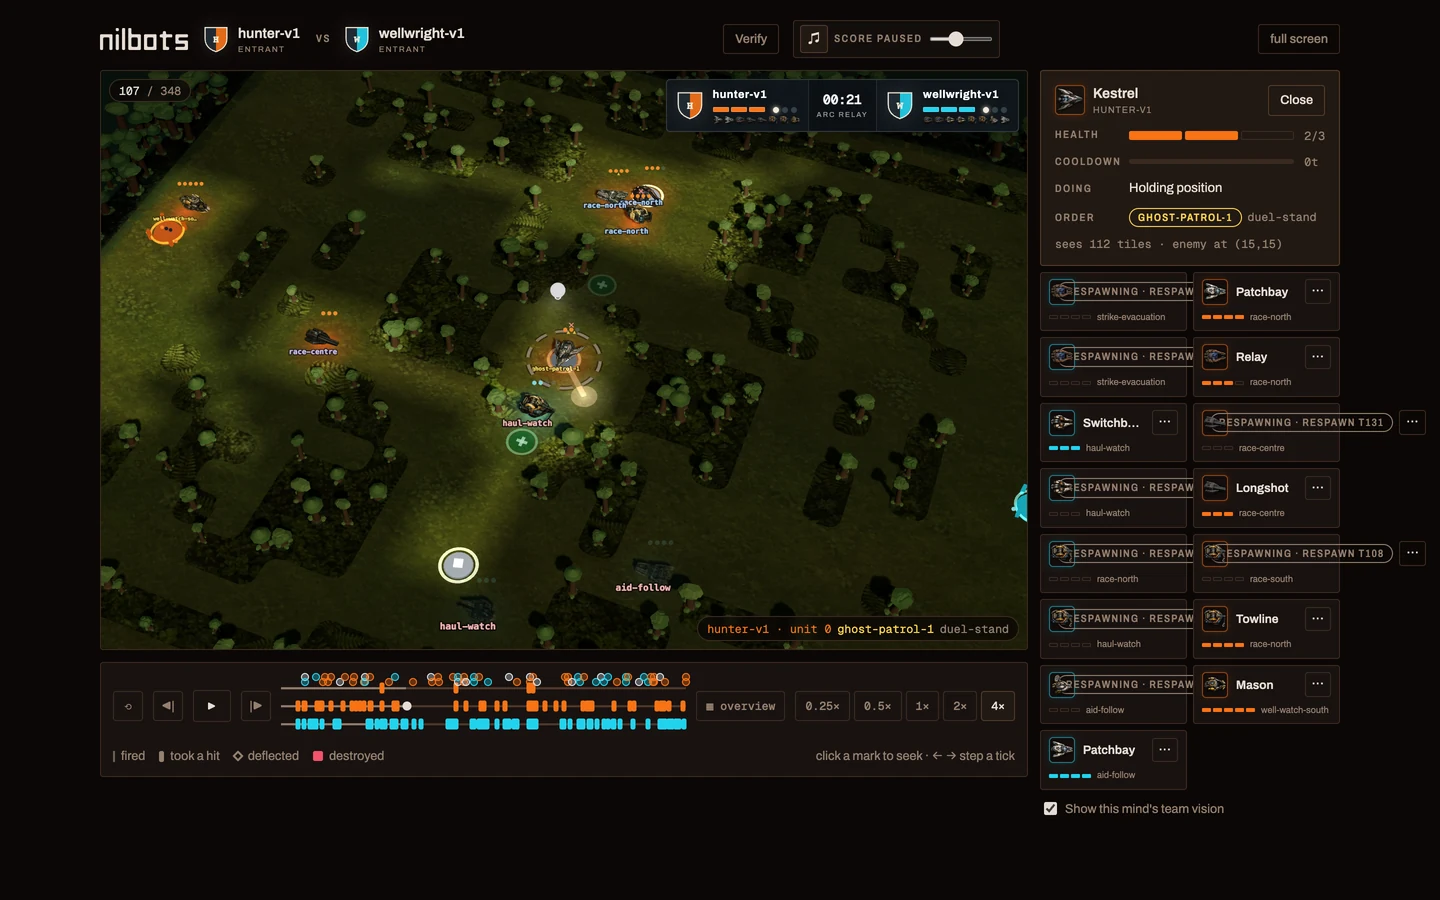
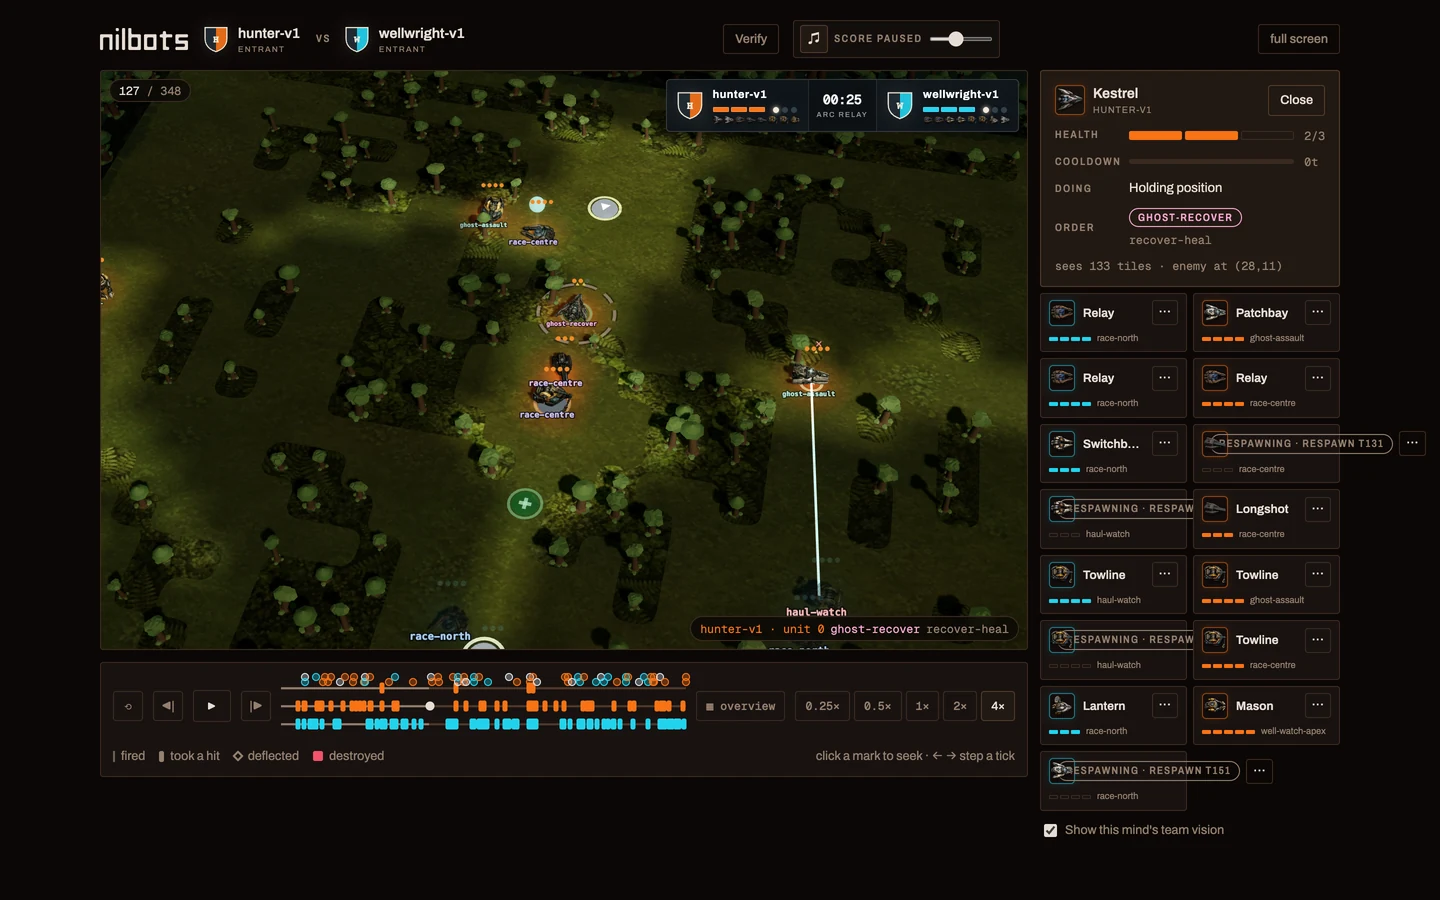
Converge Woodland camera presets

diff --git a/web/tests/arenaCamera.test.ts b/web/tests/arenaCamera.test.ts
@@ -68,7 +68,7 @@ function projectedWebglBotFootprint(
   viewport: { width: number; height: number },
   includeSelectionMarker = false,
 ): { width: number; height: number } {
-  const yaw = (22 * Math.PI) / 180;
+  const yaw = (12 * Math.PI) / 180;
   const pitch = (52 * Math.PI) / 180;
   const camera = new THREE.PerspectiveCamera(
     26,
@@ -247,7 +247,7 @@ test('it never gets closer than about six tiles, and never wider than the arena'
   assert.deepEqual(everywhere, full, 'the full arena is the zoom-out floor');
 });
 
-test('Arc Relay gives both renderers the same readable seven-and-a-half-tile closest shot', () => {
+test('Arc Relay gives both renderers the same readable seven-tile closest shot', () => {
   const arc = loadReplayJson(
     readFileSync(join(here, 'fixtures', 'generic-mind-replay-v3.json'), 'utf8'),
   ).replay;
@@ -256,7 +256,7 @@ test('Arc Relay gives both renderers the same readable seven-and-a-half-tile clo
   arc.contract.modeKind = 'arc-relay';
 
   const minSpan = directorMinSpan(arc);
-  assert.equal(minSpan, 7.5);
+  assert.equal(minSpan, 7);
   assert.equal(directorShotHoldTicks(arc), 7);
   assert.equal(directorMinSpan(frontline), undefined);
   assert.equal(directorShotHoldTicks(frontline), 0);
@@ -265,7 +265,7 @@ test('Arc Relay gives both renderers the same readable seven-and-a-half-tile clo
     aspect: PHONE_LANDSCAPE.width / PHONE_LANDSCAPE.height,
     minSpan,
   });
-  assert.ok(close.width >= 7.5, `Arc Relay close-up held at ${close.width} tiles`);
+  assert.ok(close.width >= 7, `Arc Relay close-up held at ${close.width} tiles`);
   const footprint = projectedWebglBotFootprint(close, PHONE_LANDSCAPE);
   assert.ok(
     footprint.width >= MINIMUM_BOT_RENDER_PIXELS &&
@@ -289,7 +289,10 @@ test('Arc Relay overview frames all three theaters closer than the whole map', (
       { wellId: 'well-centre', position: { x: 15, y: 11 }, nextScheduledBirthTick: 20, outstandingCoreId: null, pendingCharge: false, rearmCompletesAtTick: null },
       { wellId: 'well-south', position: { x: 15, y: 18 }, nextScheduledBirthTick: 30, outstandingCoreId: null, pendingCharge: false, rearmCompletesAtTick: null },
     ],
-    reactors: [],
+    reactors: [
+      { teamId: 0, position: { x: 1, y: 11 }, pulseProgress: 0 },
+      { teamId: 1, position: { x: 29, y: 11 }, pulseProgress: 0 },
+    ],
     visibleCores: [],
     visibleSignatures: [],
     latestPulseTeamId: null,
@@ -308,6 +311,10 @@ test('Arc Relay overview frames all three theaters closer than the whole map', (
   assert.ok(
     overview.width < framing.mapWidth,
     `the ${overview.width}-tile overview crops a ${framing.mapWidth}-wide map`,
+  );
+  assert.ok(
+    overview.width <= 24 + 1e-9,
+    'distant home Reactors do not turn the central overview back into a whole-map shot',
   );
   assert.ok(
     Math.abs(overview.x - framing.mapWidth / 2) < 1e-9 &&
@@ -937,7 +944,7 @@ test('a selection follow keeps context while its complete render clears 63×63 C
     // Arc Relay's director floor. A follow deliberately ignores it: that number exists so
     // an UNATTENDED camera keeps a rotation legible, and honouring it here would answer
     // "show me this one" with a frame barely tighter than the board.
-    minSpan: 7.5,
+    minSpan: 7,
   };
   const body = { x: 10.5, y: 8.5 };
   const follow = selectionFollowFrame(body, framing);
@@ -947,21 +954,25 @@ test('a selection follow keeps context while its complete render clears 63×63 C
     `clearly closer than the board (${follow.width.toFixed(1)} of ${full.width.toFixed(1)})`,
   );
   assert.ok(
-    follow.height <= 5.8,
-    `at most 5.8 tiles on the tight axis (${follow.height.toFixed(1)})`,
+    follow.height <= 8,
+    `at most eight tiles on the tight axis (${follow.height.toFixed(1)})`,
   );
   assert.ok(
     Math.abs(follow.x - body.x) < 1e-9 && Math.abs(follow.y - body.y) < 1e-9,
     'centred on the body, not on the map',
   );
-  const desktopFootprint = projectedWebglBotFootprint(follow, {
-    width: framing.viewportWidth,
-    height: framing.viewportHeight,
-  });
+  const desktopFootprint = projectedWebglBotFootprint(
+    follow,
+    {
+      width: framing.viewportWidth,
+      height: framing.viewportHeight,
+    },
+    true,
+  );
   assert.ok(
     desktopFootprint.width >= MINIMUM_BOT_RENDER_PIXELS &&
       desktopFootprint.height >= MINIMUM_BOT_RENDER_PIXELS,
-    `desktop body is ${desktopFootprint.width.toFixed(1)}×${desktopFootprint.height.toFixed(1)} px`,
+    `desktop selection is ${desktopFootprint.width.toFixed(1)}×${desktopFootprint.height.toFixed(1)} px`,
   );
 
   for (const viewport of [PHONE_LANDSCAPE, PHONE_PORTRAIT]) {
@@ -986,7 +997,7 @@ test('a followed body keeps the camera until a hand takes it', () => {
     mapWidth: 31,
     mapHeight: 23,
     aspect: 16 / 10,
-    minSpan: 7.5,
+    minSpan: 7,
   };
   const camera = new ArenaCamera(framing);
   const opening = selectionFollowFrame({ x: 5.5, y: 5.5 }, framing);

diff --git a/web/src/render/arenaCamera.ts b/web/src/render/arenaCamera.ts
@@ -78,7 +78,7 @@ export const MINIMUM_BOT_RENDER_PIXELS = 63;
 export function directorMinSpan(replay: ReplayModel): number | undefined {
   return replay.contract.kind === 'v3-generic' &&
     replay.contract.modeKind === 'arc-relay'
-    ? 7.5
+    ? 7
     : undefined;
 }
 
@@ -154,8 +154,9 @@ const OVERVIEW_ANCHOR_MARGIN_TILES = 0.5;
  *
  * The map bounds are deliberately not an anchor. Treating them as one made "overview" a
  * synonym for maximum zoom-out even when every objective occupied a much smaller box. The
- * frame now holds all three Wells and both Reactors with half a tile of breathing room;
- * the unplayed apron may leave the shot. It never exceeds `fullArenaFrame`.
+ * frame now holds all three Wells with half a tile of breathing room. The distant home
+ * Reactors and unplayed apron may leave the shot; making them mandatory turns the useful
+ * central overview back into a near-whole-map view. It never exceeds `fullArenaFrame`.
  *
  * The anchors are read from the first causal mode state the replay carries rather than
  * reconstructed from a map id, so a later Arc Relay map gets the same behavior without a
@@ -169,10 +170,10 @@ export function strategicOverviewFrame(
   const mode = arcRelayModeState(replay, 0);
   const wells = mode?.wells ?? [];
   if (wells.length < 2) return fullArenaFrame(framing);
-  const anchors = [
-    ...wells.map((well) => well.position),
-    ...(mode?.reactors ?? []).map((reactor) => reactor.position),
-  ].map((position) => ({ x: position.x + 0.5, y: position.y + 0.5 }));
+  const anchors = wells.map((well) => ({
+    x: well.position.x + 0.5,
+    y: well.position.y + 0.5,
+  }));
 
   const full = fullArenaFrame(framing);
   let width = framing.minSpan ?? MIN_SPAN_TILES;
@@ -323,29 +324,29 @@ export function frameEscapes(
 /**
  * How much clear ground a deliberately followed body may keep around it, in tiles.
  *
- * 5.8 tiles on the viewport's tight axis is the context ceiling, not a fixed pad. A
+ * Eight tiles on the viewport's tight axis is the context ceiling, not a fixed pad. A
  * smaller screen closes further so the body does not become smaller merely because the
  * canvas did. The resulting shot still shows the next wall or two beyond the selected
  * machine, but the machine is now the subject rather than a dot inside a squad-wide view.
  */
-export const SELECTION_FOLLOW_MAX_MINOR_SPAN_TILES = 5.8;
+export const SELECTION_FOLLOW_MAX_MINOR_SPAN_TILES = 8;
 
 /**
  * CSS pixels per ground tile reserved by the WebGL selection shot.
  *
  * A chassis' minimum plan span is 0.82 tile. Its raised, tilted projection and Woodland
  * Grove's side-biased camera consume part of that nominal size, so 63 / 0.82 is not a safe
- * camera density. 98 px/tile holds the body itself above 63×63 px at the desktop review
- * camera. On narrower screens the selected body's dashed ground marker keeps the complete
- * render above that interaction floor without forcing the terrain back into a close-up.
+ * camera density. 70 px/tile keeps the complete selected render — chassis plus its dashed
+ * ground marker — above 63×63 px in both reference phone orientations while restoring a
+ * useful lane-and-cover view around the followed machine.
  */
-const SELECTION_FOLLOW_PIXELS_PER_TILE = 98;
+const SELECTION_FOLLOW_PIXELS_PER_TILE = 70;
 
 /**
  * The screen-readable frame that follows one deliberately selected body.
  *
  * Deliberately **not** the automatic director's shot. `directorMinSpan` is a mode's floor
- * for an *unattended* camera — Arc Relay keeps seven and a half tiles so a rotation stays
+ * for an *unattended* camera — Arc Relay keeps seven tiles so a rotation stays
  * legible to someone who asked for nothing in particular — and honouring it here would
  * answer "show me this one" with a frame barely tighter than the overview the viewer just
  * left. A selection is a request, and the request is for a closer look.

diff --git a/web/tests/themeAssets.test.ts b/web/tests/themeAssets.test.ts
@@ -239,7 +239,7 @@ test('Woodland Grove carries a MOBA camera and organic tree families', () => {
   ) as ThemeManifest;
   const perimeter = manifest.walls.families.perimeter.geometry3d!;
   const cover = manifest.walls.families.cover.geometry3d!;
-  assert.equal(manifest.environment3d?.camera?.yawDegrees, 22);
+  assert.equal(manifest.environment3d?.camera?.yawDegrees, 12);
   assert.equal(manifest.environment3d?.camera?.pitchDegrees, 52);
   assert.equal(manifest.environment3d?.camera?.fovDegrees, 26);
   assert.equal(perimeter.height, 0);

diff --git a/web/tests/arenaScene3d.test.ts b/web/tests/arenaScene3d.test.ts
@@ -296,7 +296,7 @@ test('Woodland roots remain authoritative while organic foliage overhangs', () =
       )
         transitionFringes.push(node);
     });
-    assert.ok(Math.abs(arena.cameraYaw - (22 * Math.PI) / 180) < 1e-9);
+    assert.ok(Math.abs(arena.cameraYaw - (12 * Math.PI) / 180) < 1e-9);
     assert.ok(Math.abs(arena.cameraPitch - (52 * Math.PI) / 180) < 1e-9);
     assert.equal(arena.camera.fov, 26);
     assert.ok(arena.scene.fog instanceof THREE.Fog);

diff --git a/docs/ARENA-VISUALS.md b/docs/ARENA-VISUALS.md
@@ -703,17 +703,17 @@ but it cannot start a future action early. Movement wakes and thrust remain on
 through an active segment rather than pulsing at integer tick boundaries. Tread
 and wheel scroll accumulates distance along this rendered path, including a
 carrier's relocation-locked glide, rather than the underlying one-tile action.
-Arc Relay's automatic director has a shared seven-and-a-half-tile closest shot
+Arc Relay's automatic director has a shared seven-tile closest shot
 in Canvas2D and WebGL. It clusters sustained combat, treats a carrier as a
 camera subject only while threatened, and holds an ordinary shot for seven
 replay ticks before another theater may win. Deliberately selecting a bot is a
-closer, viewport-aware shot: its tight axis never exceeds 5.8 tiles and closes
-further on small screens. The minimum 0.82-tile WebGL body clears 63×63 CSS
-pixels on the desktop review camera; on narrow screens the complete selected
-render, including its dashed ground marker, retains that interaction floor
-without turning the terrain into a close-up. The manual overview fits the
-published Wells and Reactors with half a tile of breathing room, retaining all
-three theaters while allowing deep home aprons to leave the frame. Perspective
+viewport-aware shot: its tight axis never exceeds eight tiles and closes
+further on small screens. The complete selected render, including its dashed
+ground marker, retains the 63×63 CSS-pixel interaction floor in both reference
+phone orientations without turning selection into a portrait shot. The manual
+overview fits the three published Wells with half a tile of breathing room;
+distant home Reactors and deep aprons may leave the frame rather than shrinking
+the central theaters. Perspective
 fog darkens unseen terrain by 58% rather than blacking it out; one shared mask
 affects the floor and raised wall/tree materials. A compact causal HUD call
 beside the standing score identifies Core
@@ -808,8 +808,10 @@ corner distance break the rectangular silhouette without consuming playable
 space. Interior cover uses a wider vertical and radial range, mixing low scrub
 with occasional tall trees while remaining below the perimeter family's
 maximum profile.
-Woodland owns a 22° yaw, 52° pitch, and 26° field of view for a low-distortion
-MOBA-style three-quarter camera; camera-space fitting keeps the requested
+Woodland owns a restrained 12° yaw, 52° pitch, and 26° field of view for a
+low-distortion MOBA-style three-quarter camera. The smaller side rotation keeps
+the organic depth cue while spending less of the rectangular viewport on the
+rotated frame's empty corners; camera-space fitting keeps the requested
 action frame visible and fog distance scales with the lens. Canvas2D continues
 to use the baked perimeter/cover atlases and never pays for WebGL geometry or
 the theme-specific camera presentation.

diff --git a/art/themes/woodland-grove/README.md b/art/themes/woodland-grove/README.md
@@ -26,7 +26,7 @@ forest continuing outward beyond the map. Its locally varying reach, feathered
 outer density, and rounded corners prevent the boundary from resolving into a
 sharp rectangle. Interior growth is lighter and airier; its much broader
 height and width ranges mix low scrub with occasional tall, wide inner trees
-instead of producing a uniform hedge. A theme-owned 22° yaw, 52° pitch, and
+instead of producing a uniform hedge. A theme-owned 12° yaw, 52° pitch, and
 26° field of view provide the low-distortion three-quarter framing common to
 MOBA play. Camera-space fitting keeps the requested action frame visible, and
 fog distance scales with the lens. Canvas2D remains a functional fallback,
@@ -62,12 +62,13 @@ cells (`w-9001`, `w-9002`, `e-9005`, `e-9009`, `w-9012`, `e-9004`). Every
 replay header records `themeId: woodland-grove`. The current desktop frames
 use sample 01 during live play with Kestrel selected for team vision:
 
-- `review/ambush-warren-gameplay-webgl.webp` — revision-5 WebGL strategic
-  overview with the closer objective frame and softened replay-authored fog
-  continuing from the floor onto raised walls and trees.
-- `review/ambush-warren-follow-webgl.webp` — revision-5 WebGL selection shot
-  with a wider 5.8-tile follow frame, viewport-aware 63×63 interaction floor,
-  and enough neighboring terrain to read the immediate fight.
+- `review/ambush-warren-gameplay-webgl.webp` — revision-6 WebGL 24-tile Well
+  overview through the restrained 12° side rotation.
+- `review/ambush-warren-director-webgl.webp` — revision-6 unattended director
+  at its closer seven-tile floor.
+- `review/ambush-warren-follow-webgl.webp` — revision-6 selection shot with an
+  eight-tile tight axis, viewport-aware 63×63 interaction floor, and enough
+  neighboring terrain to read the immediate fight.
 
 The prior Canvas2D frame is retained only as fallback history; this revision
 was judged in 3D. Bodies, team accents, labels, projectiles, wells, reactors,

diff --git a/docs/DECISIONS.md b/docs/DECISIONS.md
@@ -6566,3 +6566,21 @@ with the floor mask at the MOBA camera pitch. Disabling perspective fog sets a
 shared uniform rather than rebuilding materials. Actors and projectiles remain
 hidden by their separate authoritative visibility path. This supersedes #127's
 floor-only exception and refines #251's initial camera constants.
+
+## 253. Reduce the side rotation and converge the camera presets again
+
+Owner correction (2026-08-08): the 22° Woodland yaw spent too much of the
+rectangular viewport fitting the empty corners of a strongly rotated ground
+frame. It moves back to a restrained 12°. Pitch and lens stay at 52° and 26°,
+so walls retain their readable faces and the arena remains three-dimensional;
+the smaller yaw simply lets the same strategic ground occupy more screen.
+
+That fit-efficiency gain brings both automatic views closer. Arc Relay's
+overview now holds the three Wells rather than expanding for both distant home
+Reactors, moving the Warren desktop frame from 27 to 24 tiles; the director's
+closest horizontal span moves from 7.5 to 7 tiles. Selection
+moves in the other direction: its tight-axis ceiling grows from 5.8 to 8 tiles
+and its responsive density moves from 98 to 70 CSS pixels per tile. The full
+selected interaction render, including its dashed marker, still clears 63×63
+CSS pixels in both reference phone orientations. This refines #252; it does not
+change its shared terrain-fog decision.
